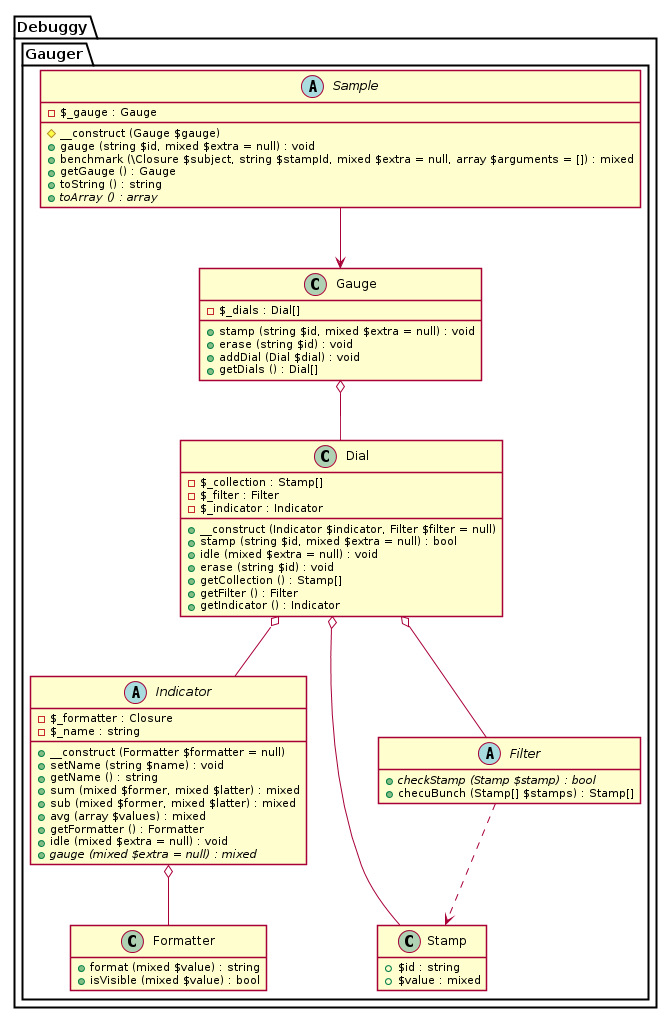
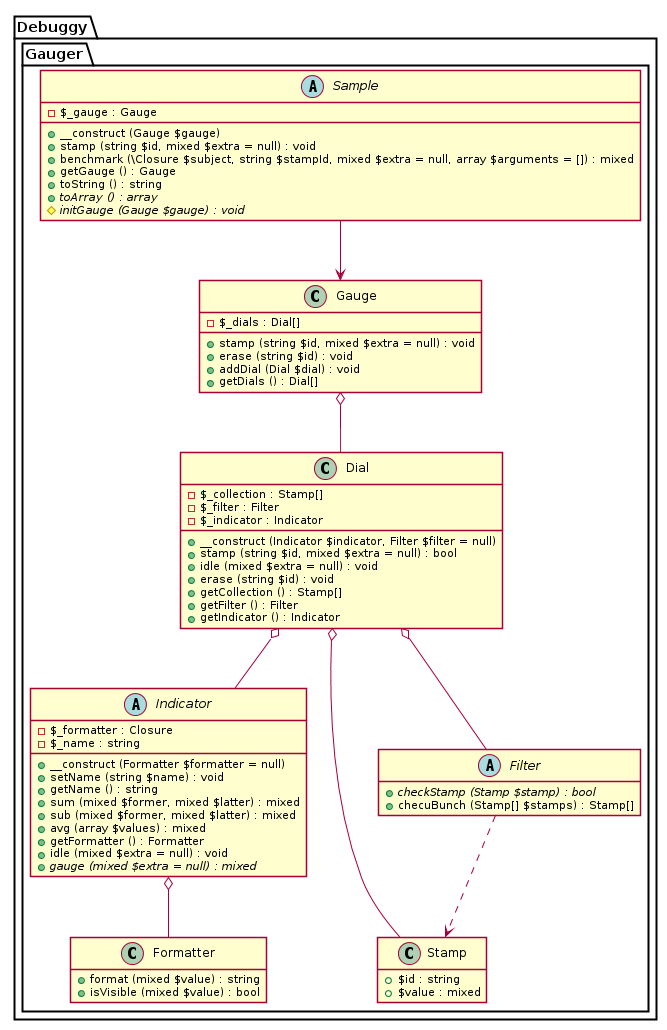
Fix UML; Sample::initGauge is abstract now

diff --git a/src/Debuggy/Gauger/Sample.php b/src/Debuggy/Gauger/Sample.php
@@ -112,7 +112,7 @@ abstract class Sample {
 	 *
 	 * @return void
 	 */
-	protected function initGauge (Gauge $gauge) {}
+	abstract protected function initGauge (Gauge $gauge);
 
 
 
